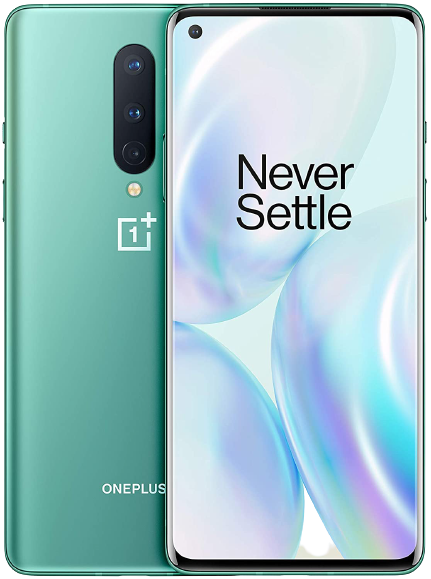
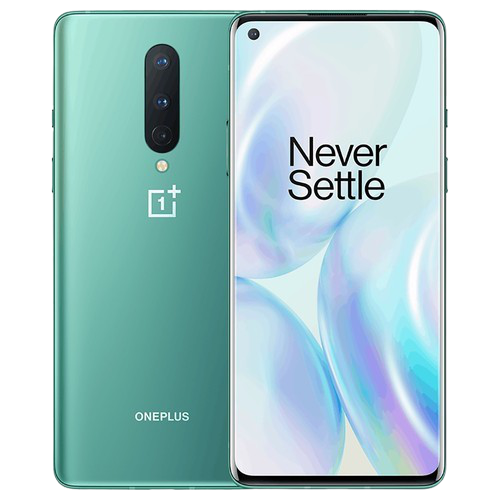
detail page
add Hero

diff --git a/testApp/lib/ui/details/addCart.dart b/testApp/lib/ui/details/addCart.dart
@@ -1,0 +1,55 @@
+import 'package:flutter/material.dart';
+
+import '../Product.dart';
+
+class AddCart extends StatelessWidget {
+  const AddCart({
+    Key key,
+    @required this.product,
+  }) : super(key: key);
+
+  final Product product;
+
+  @override
+  Widget build(BuildContext context) {
+    return Padding(
+      padding: const EdgeInsets.symmetric(vertical: 20),
+      child: Row(
+        children: <Widget>[
+          Container(
+            margin: EdgeInsets.only(right: 20),
+            height: 50,
+            width: 58,
+            decoration: BoxDecoration(
+              borderRadius: BorderRadius.circular(18),
+            ),
+            child: FlatButton(
+                shape: RoundedRectangleBorder(
+                    borderRadius: BorderRadius.circular(18)),
+                child: Icon(
+                  Icons.add_shopping_cart,
+                  color: Colors.black,
+                ),
+                color: Colors.blue[200],
+                onPressed: () {}),
+          ),
+          Expanded(
+            child: SizedBox(
+              height: 50,
+              child: FlatButton(
+                  shape: RoundedRectangleBorder(
+                      borderRadius: BorderRadius.circular(18)),
+                  color: product.color,
+                  onPressed: () {},
+                  child: Text("Compra Adesso".toUpperCase(),
+                      style: TextStyle(
+                          color: Colors.white,
+                          fontSize: 17,
+                          fontWeight: FontWeight.bold))),
+            ),
+          )
+        ],
+      ),
+    );
+  }
+}

diff --git a/testApp/lib/ui/details/cartCounter.dart b/testApp/lib/ui/details/cartCounter.dart
@@ -1,0 +1,56 @@
+import 'package:flutter/material.dart';
+
+class CartCounter extends StatefulWidget {
+  CartCounter({Key key}) : super(key: key);
+
+  @override
+  _CartCounterState createState() => _CartCounterState();
+}
+
+class _CartCounterState extends State<CartCounter> {
+  int numOfitems = 1;
+  @override
+  Widget build(BuildContext context) {
+    return Row(
+      children: <Widget>[
+        cartButton(
+            icon: Icons.remove,
+            press: () {
+              if (numOfitems > 1) {
+                setState(() {
+                  numOfitems--;
+                });
+              }
+            }),
+        Padding(
+          padding: const EdgeInsets.symmetric(horizontal: 10),
+          child: Text(
+            numOfitems.toString().padLeft(2, "0"),
+            style: Theme.of(context).textTheme.headline6,
+          ),
+        ),
+        cartButton(
+            icon: Icons.add,
+            press: () {
+              setState(() {
+                numOfitems++;
+              });
+            })
+      ],
+    );
+  }
+
+  SizedBox cartButton({IconData icon, Function press}) {
+    return SizedBox(
+        width: 40,
+        height: 32,
+        child: FlatButton(
+          padding: EdgeInsets.zero,
+          color: Colors.blueAccent,
+          onPressed: press,
+          child: Icon(icon),
+          shape:
+              RoundedRectangleBorder(borderRadius: BorderRadius.circular(13)),
+        ));
+  }
+}

diff --git a/testApp/lib/ui/details/detailBody.dart b/testApp/lib/ui/details/detailBody.dart
@@ -2,6 +2,12 @@ import 'package:flutter/material.dart';
 import 'package:testApp/ui/Product.dart';
 import 'package:testApp/ui/constants.dart';
 
+import 'addCart.dart';
+import 'cartCounter.dart';
+import 'colorAndSize.dart';
+import 'description.dart';
+import 'favBtn.dart';
+
 class Body extends StatelessWidget {
   final Product product;
   const Body({Key key, this.product}) : super(key: key);
@@ -17,12 +23,24 @@ class Body extends StatelessWidget {
               children: <Widget>[
                 Container(
                   margin: EdgeInsets.only(top: size.height * 0.3),
-                  height: 500,
+                  //height: 500,
+                  padding: EdgeInsets.only(
+                      top: size.height * 0.12, left: 20, right: 20),
                   decoration: BoxDecoration(
                       color: Colors.white,
                       borderRadius: BorderRadius.only(
                           topLeft: Radius.circular(24),
                           topRight: Radius.circular(24))),
+                  child: Column(
+                    children: <Widget>[
+                      ColorAndSize(
+                        product: product,
+                      ),
+                      Description(product: product),
+                      FavBtn(),
+                      AddCart(product: product),
+                    ],
+                  ),
                 ),
                 Padding(
                     padding:

diff --git a/testApp/lib/ui/details/colorAndSize.dart b/testApp/lib/ui/details/colorAndSize.dart
@@ -1,0 +1,45 @@
+import 'package:flutter/material.dart';
+
+import '../Product.dart';
+import '../constants.dart';
+import 'colorDot.dart';
+
+class ColorAndSize extends StatelessWidget {
+  final Product product;
+  const ColorAndSize({Key key, @required this.product}) : super(key: key);
+
+  @override
+  Widget build(BuildContext context) {
+    return Row(children: <Widget>[
+      Expanded(
+        child: Column(
+          crossAxisAlignment: CrossAxisAlignment.start,
+          children: <Widget>[
+            Text(
+              "data",
+              style: TextStyle(color: kTextColor),
+            ),
+            Row(children: [
+              ColorDot(
+                color: Color(0xFF356C95),
+                isSelected: true,
+              ),
+              ColorDot(
+                color: Color(0xFF212121),
+              ),
+              ColorDot(
+                color: Color(0xFFF57F17),
+              ),
+            ]),
+          ],
+        ),
+      ),
+      Expanded(
+          child: RichText(
+              text: TextSpan(style: TextStyle(color: kTextColor), children: [
+        TextSpan(text: "Dettagli prodotto \n"),
+        TextSpan(text: "data", style: TextStyle(color: kTextColor)),
+      ]))),
+    ]);
+  }
+}

diff --git a/testApp/lib/ui/details/colorDot.dart b/testApp/lib/ui/details/colorDot.dart
@@ -1,0 +1,23 @@
+import 'package:flutter/material.dart';
+
+class ColorDot extends StatelessWidget {
+  final Color color;
+  final bool isSelected;
+  const ColorDot({Key key, this.color, this.isSelected = false})
+      : super(key: key);
+
+  @override
+  Widget build(BuildContext context) {
+    return Container(
+      margin: EdgeInsets.only(top: 5, right: 10),
+      padding: EdgeInsets.all(2.5),
+      height: 24,
+      width: 24,
+      decoration: BoxDecoration(
+          shape: BoxShape.circle,
+          border: Border.all(color: isSelected ? color : Colors.transparent)),
+      child: DecoratedBox(
+          decoration: BoxDecoration(shape: BoxShape.circle, color: color)),
+    );
+  }
+}

diff --git a/testApp/lib/ui/details/favBtn.dart b/testApp/lib/ui/details/favBtn.dart
@@ -1,0 +1,29 @@
+import 'package:flutter/material.dart';
+
+import 'cartCounter.dart';
+
+class FavBtn extends StatelessWidget {
+  const FavBtn({
+    Key key,
+  }) : super(key: key);
+
+  @override
+  Widget build(BuildContext context) {
+    return Row(
+      mainAxisAlignment: MainAxisAlignment.spaceBetween,
+      children: [
+        CartCounter(),
+        Container(
+          padding: EdgeInsets.all(1),
+          height: 27,
+          width: 27,
+          decoration: BoxDecoration(
+            color: Colors.red,
+            shape: BoxShape.circle,
+          ),
+          child: Icon(Icons.favorite),
+        )
+      ],
+    );
+  }
+}

diff --git a/testApp/lib/app/ShopyFast.dart/shopyFast.dart b/testApp/lib/app/ShopyFast.dart/shopyFast.dart
@@ -1,4 +1,5 @@
 import 'package:flutter/material.dart';
+import 'package:testApp/ui/constants.dart';
 
 import 'package:testApp/ui/home/mainScreen.dart';
 
@@ -9,7 +10,9 @@ class ShopyFast extends StatelessWidget {
   Widget build(BuildContext context) {
     return MaterialApp(
       debugShowCheckedModeBanner: false,
-      theme: ThemeData.dark().copyWith(scaffoldBackgroundColor: darkBlue),
+      theme: ThemeData.dark().copyWith(
+          scaffoldBackgroundColor: darkBlue,
+          textTheme: Theme.of(context).textTheme.apply(bodyColor: kTextColor)),
       home: MainScreen(),
     );
   }

diff --git a/testApp/lib/ui/details/description.dart b/testApp/lib/ui/details/description.dart
@@ -1,0 +1,22 @@
+import 'package:flutter/material.dart';
+
+import '../Product.dart';
+
+class Description extends StatelessWidget {
+  const Description({
+    Key key,
+    @required this.product,
+  }) : super(key: key);
+
+  final Product product;
+
+  @override
+  Widget build(BuildContext context) {
+    return Padding(
+        padding: EdgeInsets.symmetric(vertical: 20),
+        child: Text(
+          product.description,
+          style: TextStyle(color: Colors.black, height: 1.5),
+        ));
+  }
+}

diff --git a/testApp/lib/ui/Product.dart b/testApp/lib/ui/Product.dart
@@ -29,7 +29,7 @@ List<Product> products = [
       price: 650,
       size: 14,
       description: dummyText,
-      image: "assets/images/onePlus8.jpg",
+      image: "assets/images/oneplus8.jpg",
       color: Color.fromARGB(250, 42, 84, 80)),
   Product(
       id: 3,

diff --git a/testApp/lib/ui/myAppBar.dart b/testApp/lib/ui/myAppBar.dart
@@ -29,7 +29,7 @@ class _AppBarState extends State<MyAppBar> {
             ),
           ),
           Spacer(),
-          Icon(Icons.add_shopping_cart),
+          Icon(Icons.shopping_cart),
         ],
       ),
       bottom: PreferredSize(
